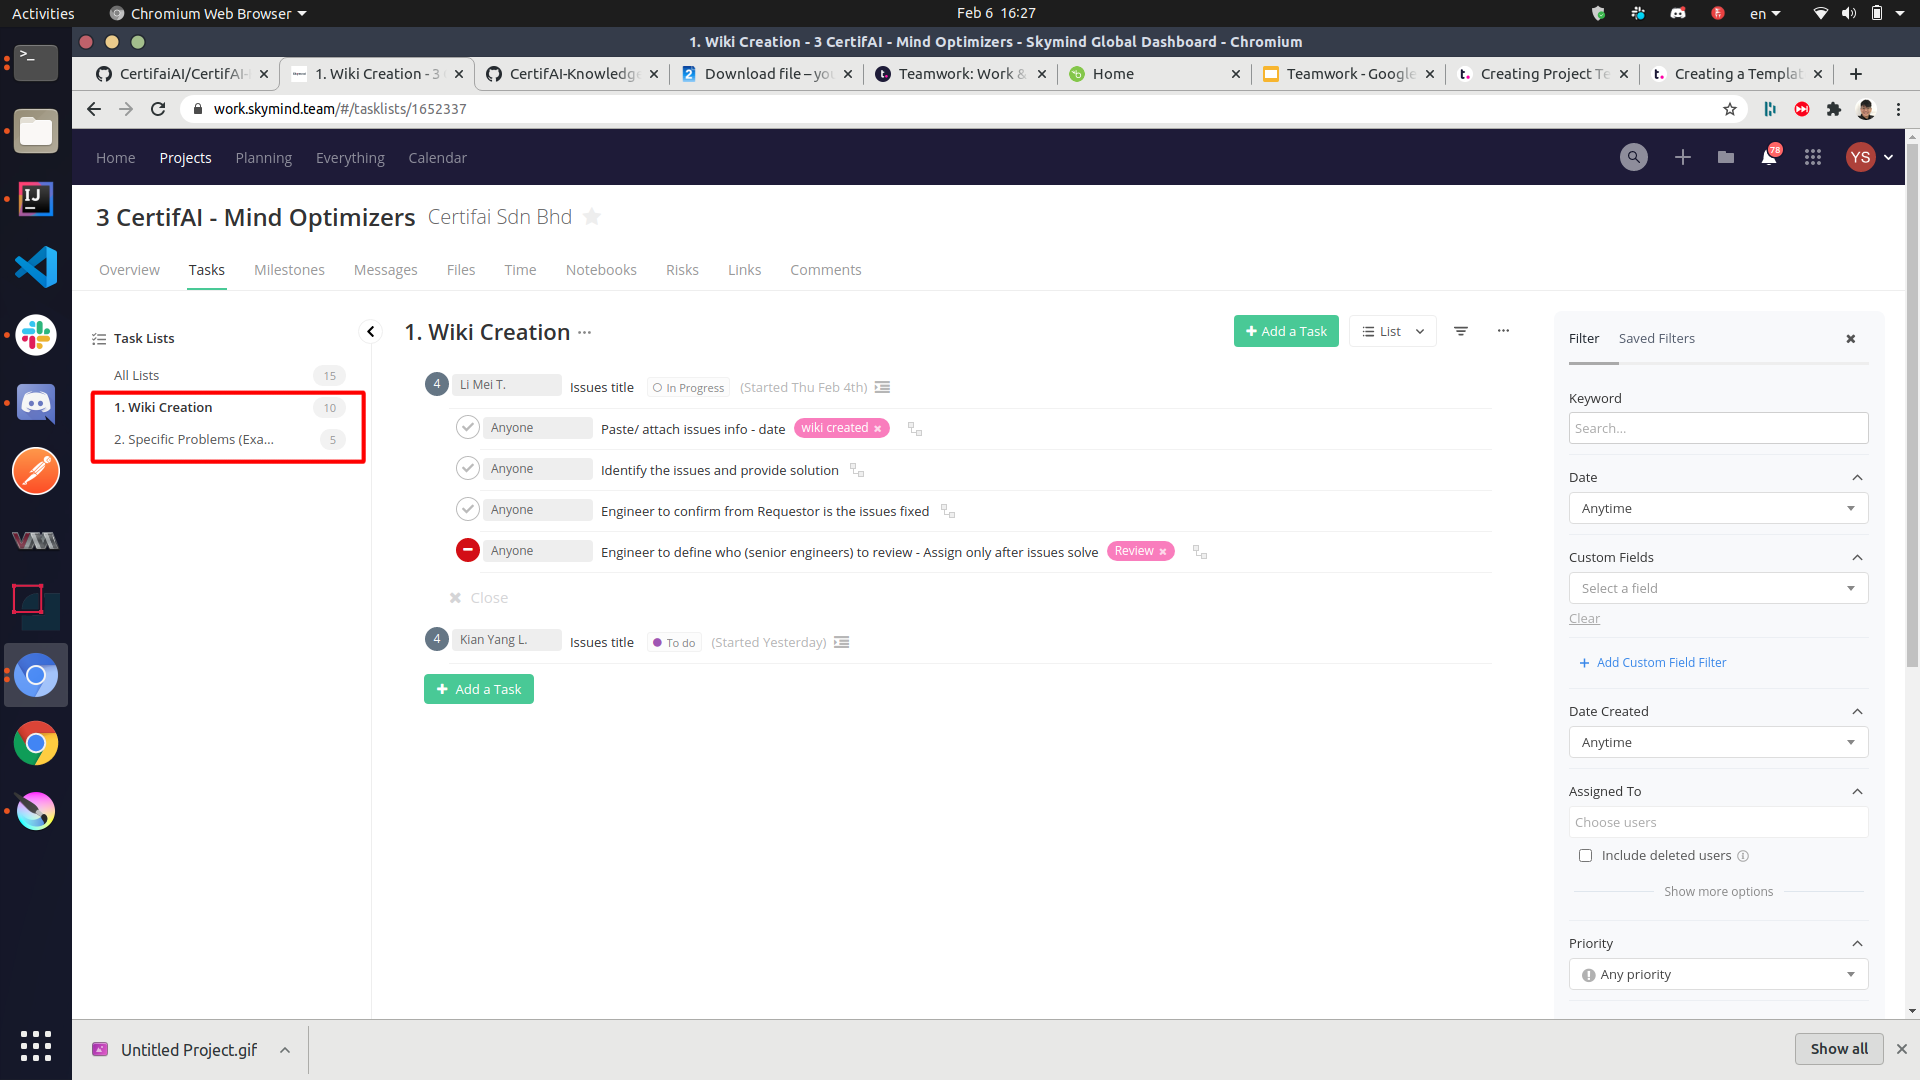
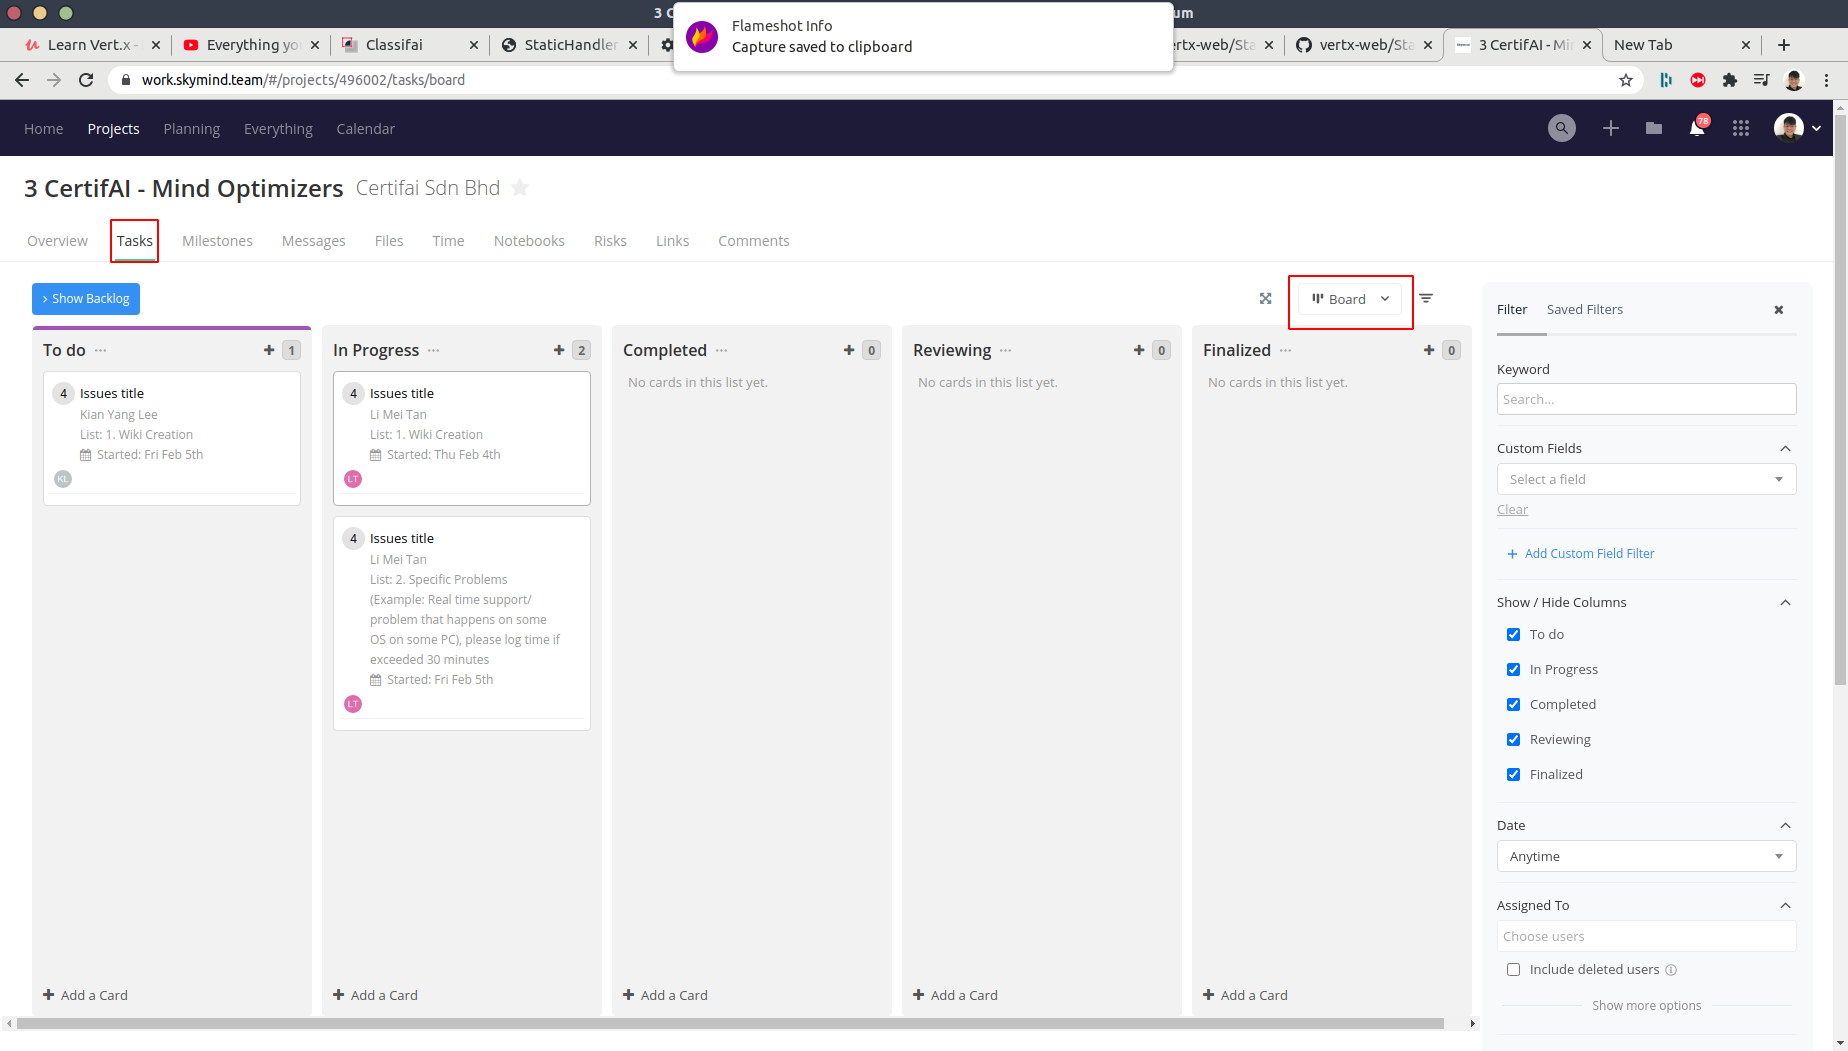
modify mindoptimizer.md

diff --git a/MindOptimizer.md b/MindOptimizer.md
@@ -7,7 +7,10 @@ This tutorial is aimed to walkthrough you about how to make use of the teamwork 
 ### Step 1 : Open Mind Optimizer Project in Teamwork Project
 ![](metadata/17.png)
 
-### Step 2 : Click go the task page and select view as list
+### Step 2 : Click go the task page and select view as board
+![](metadata/18.png)
+
+### Step 3 : Click the + button on the *to do* board and name the task as the name of issue
 ![](metadata/19.png)
 
 ### Step 4 : Select the task from task list that you are doing
@@ -15,24 +18,19 @@ This tutorial is aimed to walkthrough you about how to make use of the teamwork 
 - Wiki Creation
 - Specific Problems (Example: Real time support/ problem that happens on some OS on some PC)
   
-![](metadata/18.png)
-
-### Step 5 : Add a task with the name of the issue title, assign yourself 
 ![](metadata/20.png)
 
-### Step 6 : Click the ... button on the left side of your task then click the *Add Subtask from Template* button
+### Step 5 : Assign yourself 
 ![](metadata/21.png)
 
-### Step 7 : Search for *CerfifAI Wiki Creation / Specific Problem* and click apply template
+### Step 6 : Select the start date as today
 ![](metadata/22.png)
 
-### Step 9 : Add it to a column 
-
-- To do
-- In progress
-- Completed
-- Reviewing
-- Finalized
-  
+### Step 7 : Click in the task from card, then click the ... button on the left side of your task then click the *Add Subtask from Template* button
 ![](metadata/23.png)
-### Step 10 : Provide info required in the template / click the tick when done
+
+### Step 8 : Search for *CerfifAI Wiki Creation / Specific Problem* and click apply template
+![](metadata/24.png)
+
+### Step 9 : Provide info required in the template / click the tick when done
+![](metadata/25.png)
